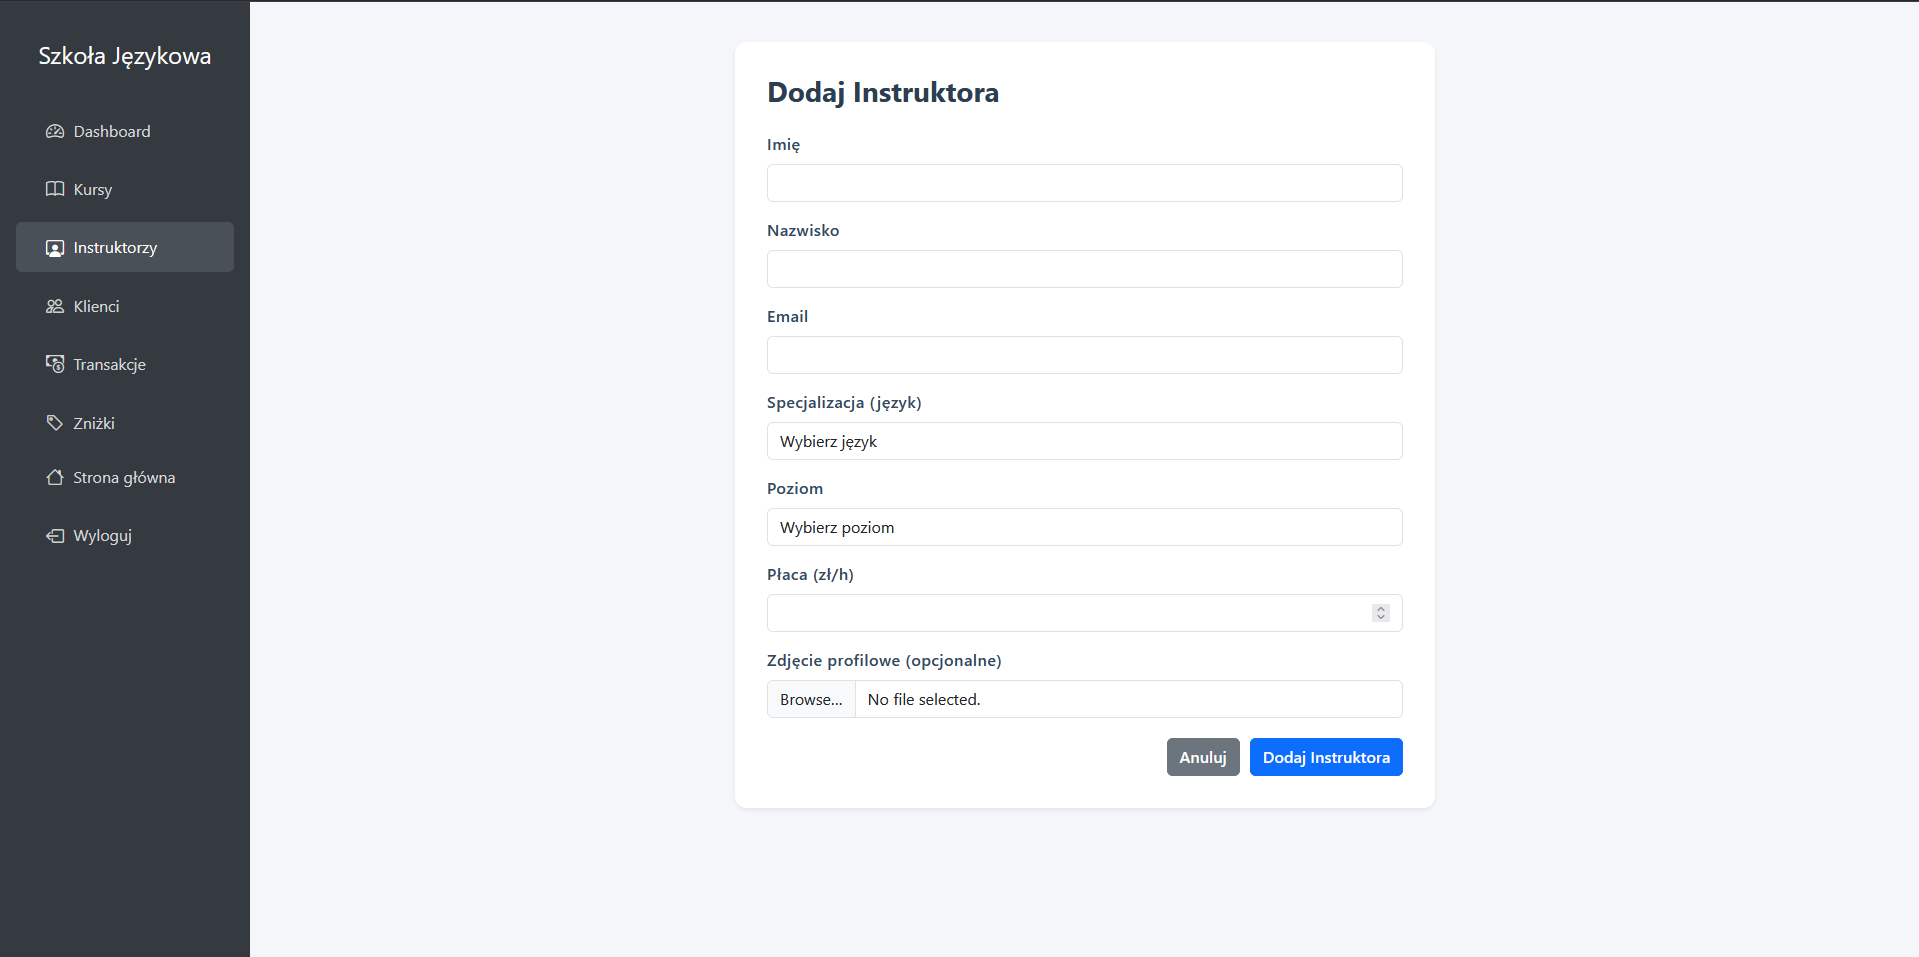
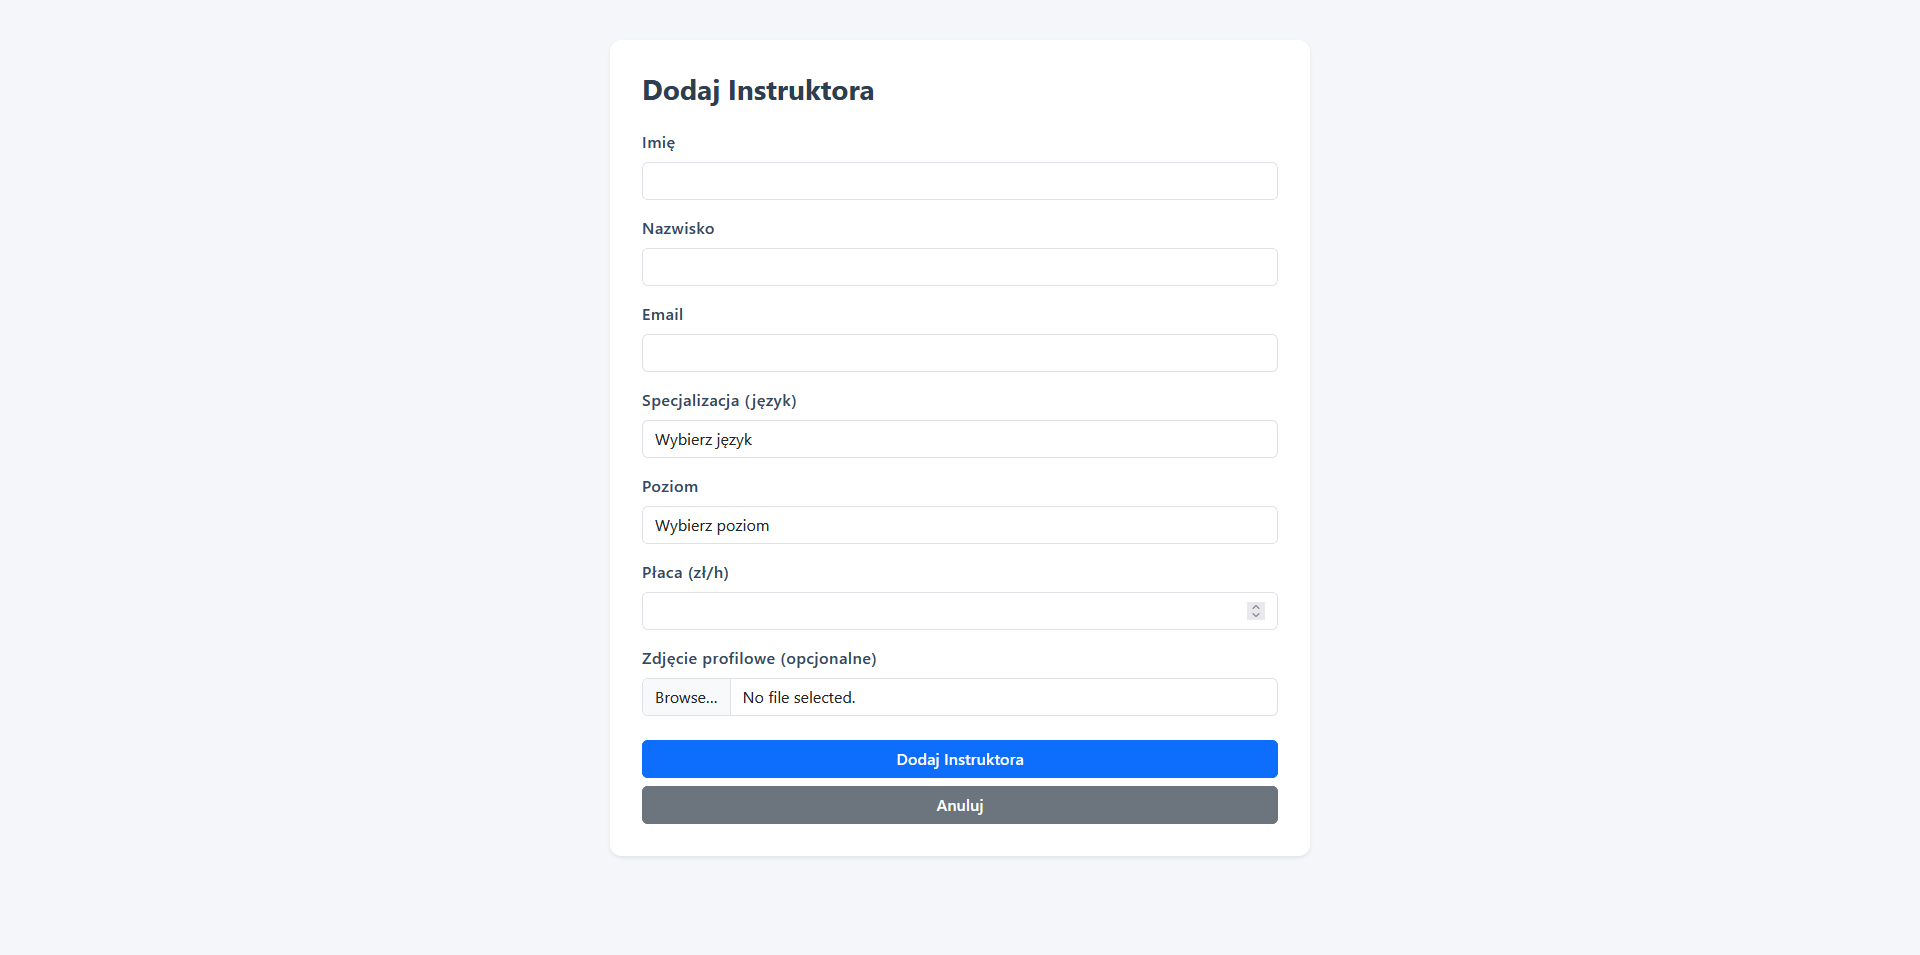
Poprawiono linki do detali kursow, usunieto link do instruktorow, poprawiono dokumentacje oraz przyciski w formularzach instruktorow

diff --git a/resources/views/home.blade.php b/resources/views/home.blade.php
@@ -67,10 +67,10 @@
                 <div class="card course-card h-100 d-flex flex-column">
                     <img src="{{ $kurs->zdjecie_url }}" alt="{{ $kurs->jezyk }} - {{ $kurs->poziom }}" class="course-card img">
                     <div class="card-body d-flex flex-column">
-                        <h5><a href="course-detail.html?id={{ $kurs->id_kursu }}" class="course-title">{{ $kurs->jezyk }} - {{ $kurs->poziom }}</a></h5>
+                        <h5><a href="{{ route('kurs.show', $kurs->id_kursu) }}" class="course-title">{{ $kurs->jezyk }} - {{ $kurs->poziom }}</a></h5>
                         <p class="card-text flex-grow-1">
                             @if($kurs->instructor)
-                                Instruktor: <a href="instructor-detail.html?id={{ $kurs->instructor->id }}" class="instructor-name">{{ $kurs->instructor->imie }} {{ $kurs->instructor->nazwisko }}</a><br>
+                                Instruktor: <span class="instructor-text">{{ $kurs->instructor->imie }} {{ $kurs->instructor->nazwisko }}</span><br>
                             @else
                                 Instruktor: Brak przypisanego<br>
                             @endif

diff --git a/resources/views/instruktorzy/create.blade.php b/resources/views/instruktorzy/create.blade.php
@@ -71,9 +71,9 @@
             <input type="file" name="zdjecie" id="zdjecie" class="form-control" accept="image/*">
           </div>
 
-        <div class="d-flex gap-2 justify-content-end mt-4">
-          <a href="{{ url('instruktorzy') }}" class="btn btn-secondary">Anuluj</a>
-          <button type="submit" class="btn btn-primary">Dodaj Instruktora</button>
+        <div class="d-grid gap-2 mt-4">
+            <button type="submit" class="btn btn-primary">Dodaj Instruktora</button>
+            <a href="{{ url('instruktorzy') }}" class="btn btn-secondary">Anuluj</a>
         </div>
       </form>
     </div>

diff --git a/resources/views/instruktorzy/edit.blade.php b/resources/views/instruktorzy/edit.blade.php
@@ -81,9 +81,9 @@
             <label for="usun_zdjecie" class="form-check-label">Usuń obecne zdjęcie</label>
           </div>
 
-        <div class="d-flex gap-2 justify-content-end mt-4">
-          <a href="{{ url('instruktorzy') }}" class="btn btn-secondary">Anuluj</a>
-          <button type="submit" class="btn btn-primary">Zapisz zmiany</button>
+        <div class="d-grid gap-2 mt-4">
+            <button type="submit" class="btn btn-primary">Zapisz zmiany</button>
+            <a href="{{ url('instruktorzy') }}" class="btn btn-secondary">Anuluj</a>
         </div>
       </form>
     </div>

diff --git a/postgres_documentation.md b/postgres_documentation.md
@@ -42,7 +42,7 @@ Dostępne funkcjonalności:
 ### Narzędzia i technologie
 * PHP 8.2
 * Laravel Framework 11.x
-* MySQL 8.0
+* PostgreSQL 16.x
 * HTML5, CSS3, JavaScript
 * Bootstrap 5.3.0
 * Composer
@@ -54,7 +54,7 @@ Dostępne funkcjonalności:
 Wymagania:
 - PHP 8.2 lub wyższy
 - Composer
-- MySQL 8.0
+- PostgreSQL 16.x lub wyższy
 - Node.js & NPM
 
 ```bash
@@ -74,7 +74,10 @@ cp .env.example .env
 # Wygenerowanie klucza aplikacji
 php artisan key:generate
 
-# Konfiguracja bazy danych w pliku .env
+# Konfiguracja bazy danych PostgreSQL w pliku .env
+# DB_CONNECTION=pgsql
+# DB_HOST=127.0.0.1
+# DB_PORT=5432
 # DB_DATABASE=nazwa_bazy
 # DB_USERNAME=uzytkownik
 # DB_PASSWORD=haslo
@@ -98,48 +101,66 @@ Przykładowi użytkownicy aplikacji:
 
 ![Diagram ERD](./dokumentacja/erd.png)
 
-**Główne tabele i relacje:**
+**Główne tabele i relacje (PostgreSQL):**
 
 **Tabela `kursy` (Kursy językowe):**
-- `id_kursu` (PK) - unikalny identyfikator kursu
-- `cena`, `jezyk`, `poziom` - podstawowe dane kursu  
-- `data_rozpoczecia`, `data_zakonczenia` - harmonogram
-- `liczba_miejsc` - limit uczestników
-- `id_instruktora` (FK) - powiązanie z instruktorem
-- `zdjecie` - ścieżka do obrazu kursu
+- `id_kursu` (SERIAL PRIMARY KEY) - unikalny identyfikator kursu
+- `cena` (DECIMAL(8,2)), `jezyk` (VARCHAR), `poziom` (VARCHAR) - podstawowe dane kursu  
+- `data_rozpoczecia`, `data_zakonczenia` (DATE) - harmonogram
+- `liczba_miejsc` (INTEGER) - limit uczestników
+- `id_instruktora` (INTEGER REFERENCES instruktorzy) - powiązanie z instruktorem
+- `zdjecie_url` (VARCHAR) - URL do obrazu kursu
 - Denormalizowane dane instruktora (zachowane po soft-delete)
+- `created_at`, `updated_at` (TIMESTAMP) - znaczniki czasowe
 
 **Tabela `klienci` (Klienci szkoły):**
-- `id_klienta` (PK) - unikalny identyfikator
-- `email`, `imie`, `nazwisko` - dane osobowe
-- `haslo`, `adres`, `nr_telefonu` - dodatkowe informacje
-- `adres_zdjecia`, `role` - profil użytkownika
+- `id_klienta` (SERIAL PRIMARY KEY) - unikalny identyfikator
+- `email` (VARCHAR UNIQUE), `imie`, `nazwisko` (VARCHAR) - dane osobowe
+- `haslo` (VARCHAR), `adres`, `nr_telefonu` (VARCHAR) - dodatkowe informacje
+- `zdjecie_url` (VARCHAR), `role` (VARCHAR DEFAULT 'klient') - profil użytkownika
+- `created_at`, `updated_at` (TIMESTAMP) - znaczniki czasowe
+
+**Tabela `instruktorzy` (Instruktorzy):**
+- `id` (SERIAL PRIMARY KEY) - unikalny identyfikator
+- `imie`, `nazwisko` (VARCHAR) - dane osobowe
+- `email` (VARCHAR UNIQUE) - adres email
+- `jezyk` (VARCHAR) - specjalizacja językowa
+- `poziom` (VARCHAR) - poziom nauczania
+- `placa` (DECIMAL(8,2)) - stawka godzinowa
+- `zdjecie_url` (VARCHAR) - URL do zdjęcia profilowego
+- `deleted_at` (TIMESTAMP) - soft delete
+- `created_at`, `updated_at` (TIMESTAMP) - znaczniki czasowe
 
 **Tabela `transakcje` (Historia płatności):**
-- `id_transakcji` (PK) - unikalny identyfikator
-- `id_kursu` (FK) - powiązanie z kursem
-- `id_klienta` (FK) - powiązanie z klientem  
-- `kurs_jezyk`, `kurs_poziom` - denormalizowane dane kursu
-- `klient_imie`, `klient_nazwisko`, `klient_email` - denormalizowane dane klienta
-- `cena_ostateczna`, `status`, `data` - szczegóły transakcji
-- `reservation_id` (FK) - powiązanie z rezerwacją
+- `id_transakcji` (SERIAL PRIMARY KEY) - unikalny identyfikator
+- `id_kursu` (INTEGER REFERENCES kursy) - powiązanie z kursem
+- `id_klienta` (INTEGER REFERENCES klienci) - powiązanie z klientem  
+- `kurs_jezyk`, `kurs_poziom` (VARCHAR) - denormalizowane dane kursu
+- `klient_imie`, `klient_nazwisko`, `klient_email` (VARCHAR) - denormalizowane dane klienta
+- `cena_ostateczna` (DECIMAL(8,2)), `status` (VARCHAR), `data` (TIMESTAMP) - szczegóły transakcji
+- `reservation_id` (INTEGER REFERENCES reservations) - powiązanie z rezerwacją
 
 **Tabela `reservations` (Rezerwacje):**
-- `id` (PK) - unikalny identyfikator
-- `imie`, `nazwisko`, `email`, `nr_telefonu` - dane rezerwującego
-- `course_id` (FK) - powiązanie z kursem
-- `base_price` - cena bazowa
+- `id` (SERIAL PRIMARY KEY) - unikalny identyfikator
+- `imie`, `nazwisko`, `email`, `nr_telefonu` (VARCHAR) - dane rezerwującego
+- `course_id` (INTEGER REFERENCES kursy) - powiązanie z kursem
+- `base_price` (DECIMAL(8,2)) - cena bazowa
+- `created_at`, `updated_at` (TIMESTAMP) - znaczniki czasowe
 
 **Tabela `znizki` (System promocji):**
-- `id_znizki` (PK) - unikalny identyfikator  
-- `nazwa_znizki` - nazwa promocji
-- `wartosc` - wartość zniżki
-- `opis` - szczegóły promocji
-- `active` - status aktywności
+- `id_znizki` (SERIAL PRIMARY KEY) - unikalny identyfikator  
+- `nazwa_znizki` (VARCHAR) - nazwa promocji
+- `wartosc` (DECIMAL(5,2)) - wartość zniżki (procent)
+- `opis` (TEXT) - szczegóły promocji
+- `active` (BOOLEAN DEFAULT true) - status aktywności
+- `created_at`, `updated_at` (TIMESTAMP) - znaczniki czasowe
 
 **Tabela `klienci_znizki` (Powiązania klient-zniżka):**
 - Tabela łącząca klientów ze zniżkami (many-to-many)
-- `id_klienta` (FK), `id_znizki` (FK)
+- `id` (SERIAL PRIMARY KEY)
+- `id_klienta` (INTEGER REFERENCES klienci)
+- `id_znizki` (INTEGER REFERENCES znizki)
+- `created_at`, `updated_at` (TIMESTAMP)
 
 **Kluczowe relacje:**
 - Jeden instruktor może prowadzić wiele kursów (1:N)
@@ -147,6 +168,12 @@ Przykładowi użytkownicy aplikacji:
 - Jeden klient może mieć wiele transakcji (1:N)
 - Jeden kurs może mieć wiele rezerwacji (1:N)
 - Klienci i zniżki w relacji many-to-many
+
+**Indeksy PostgreSQL:**
+- Indeksy na kluczach obcych dla lepszej wydajności
+- Indeks na `email` w tabelach `klienci` i `instruktorzy`
+- Indeks na `data_rozpoczecia` w tabeli `kursy`
+- Indeks na `status` w tabeli `transakcje`
 
 ## Widoki aplikacji 
 
@@ -229,3 +256,11 @@ Przykładowi użytkownicy aplikacji:
 - Filtry i wyszukiwanie w tabelach
 - Responsywny interfejs
 - Eksport danych
+
+### Zalety PostgreSQL w projekcie
+- Zaawansowane typy danych (JSON, ARRAY)
+- Silne zabezpieczenia i integralność danych
+- Wydajność przy złożonych zapytaniach
+- Wsparcie dla full-text search
+- Atomowość transakcji (ACID)
+- Obsługa równoległych połączeń
